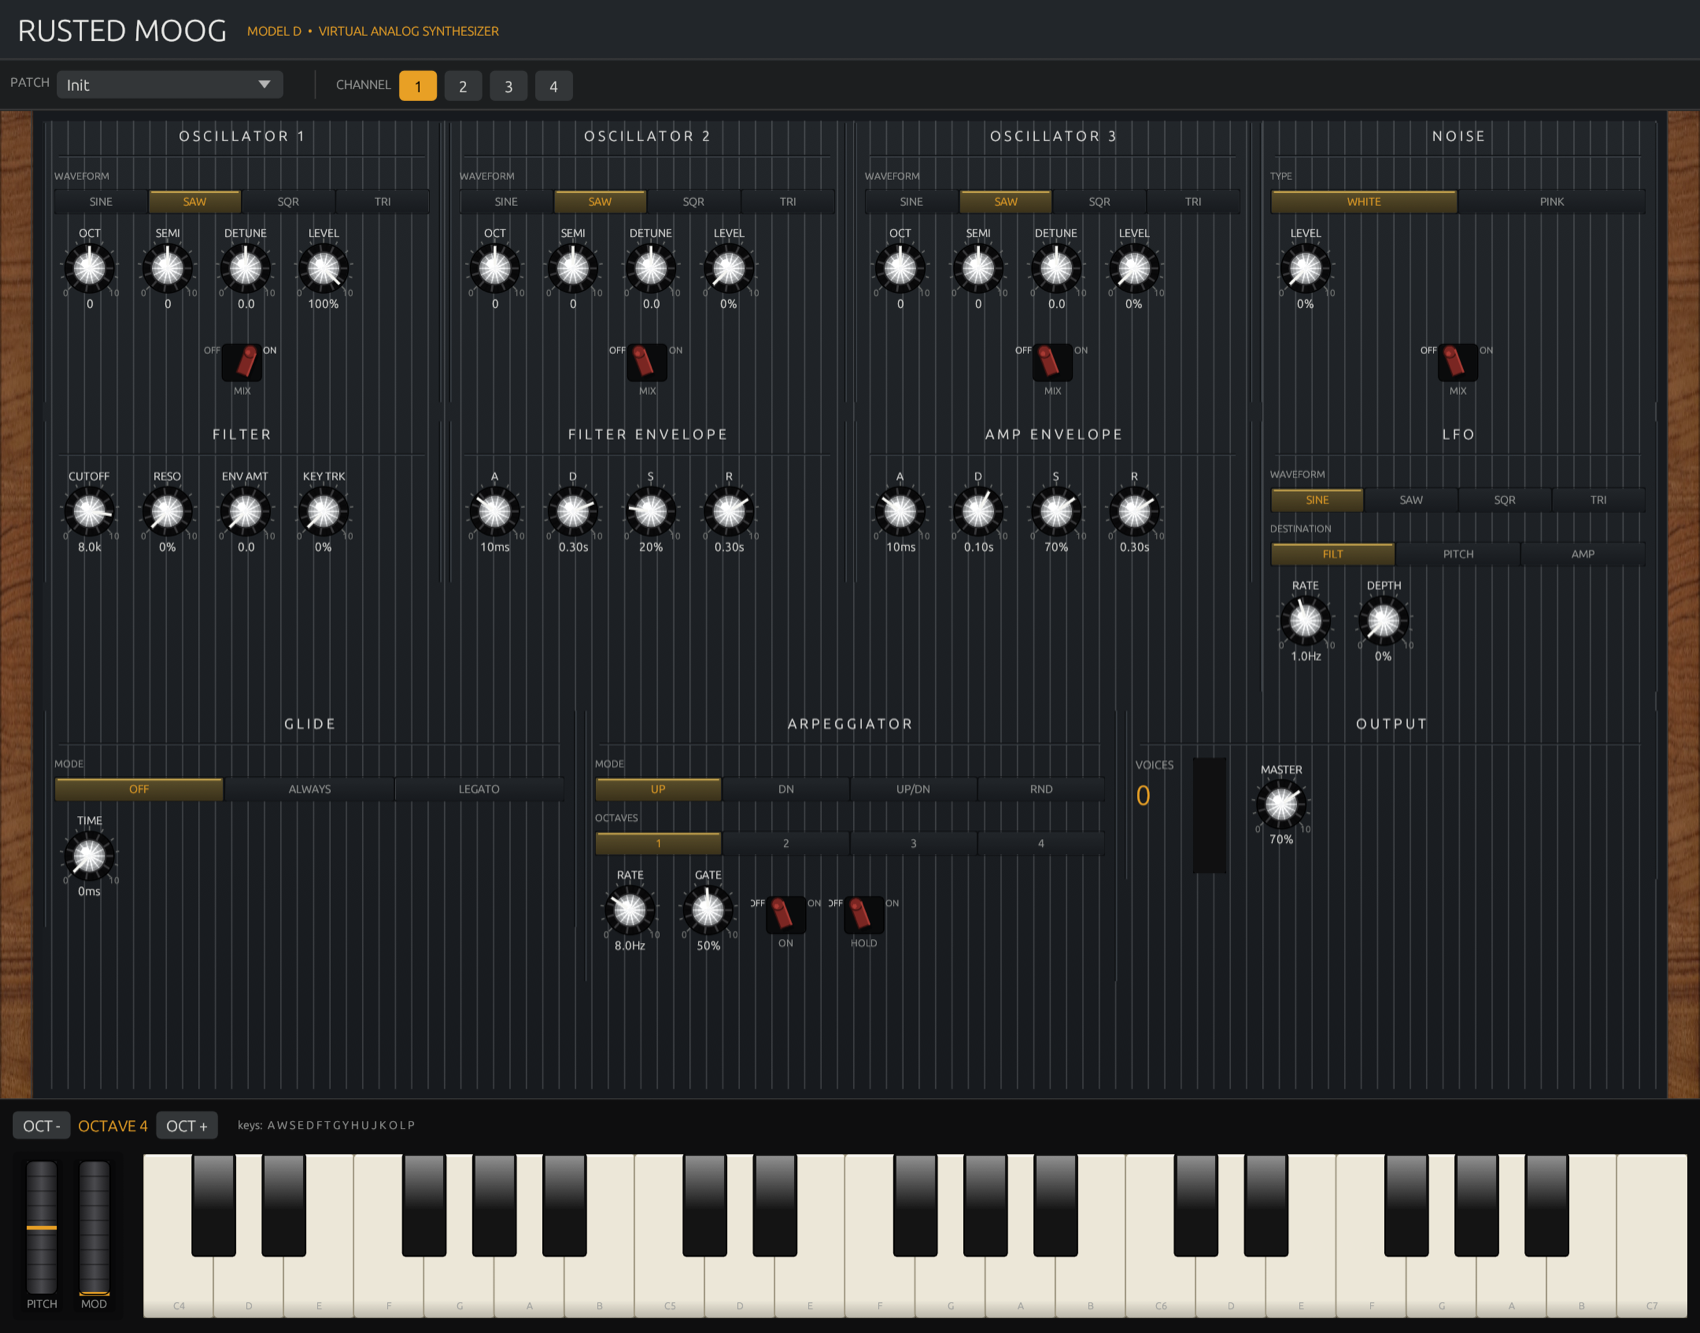
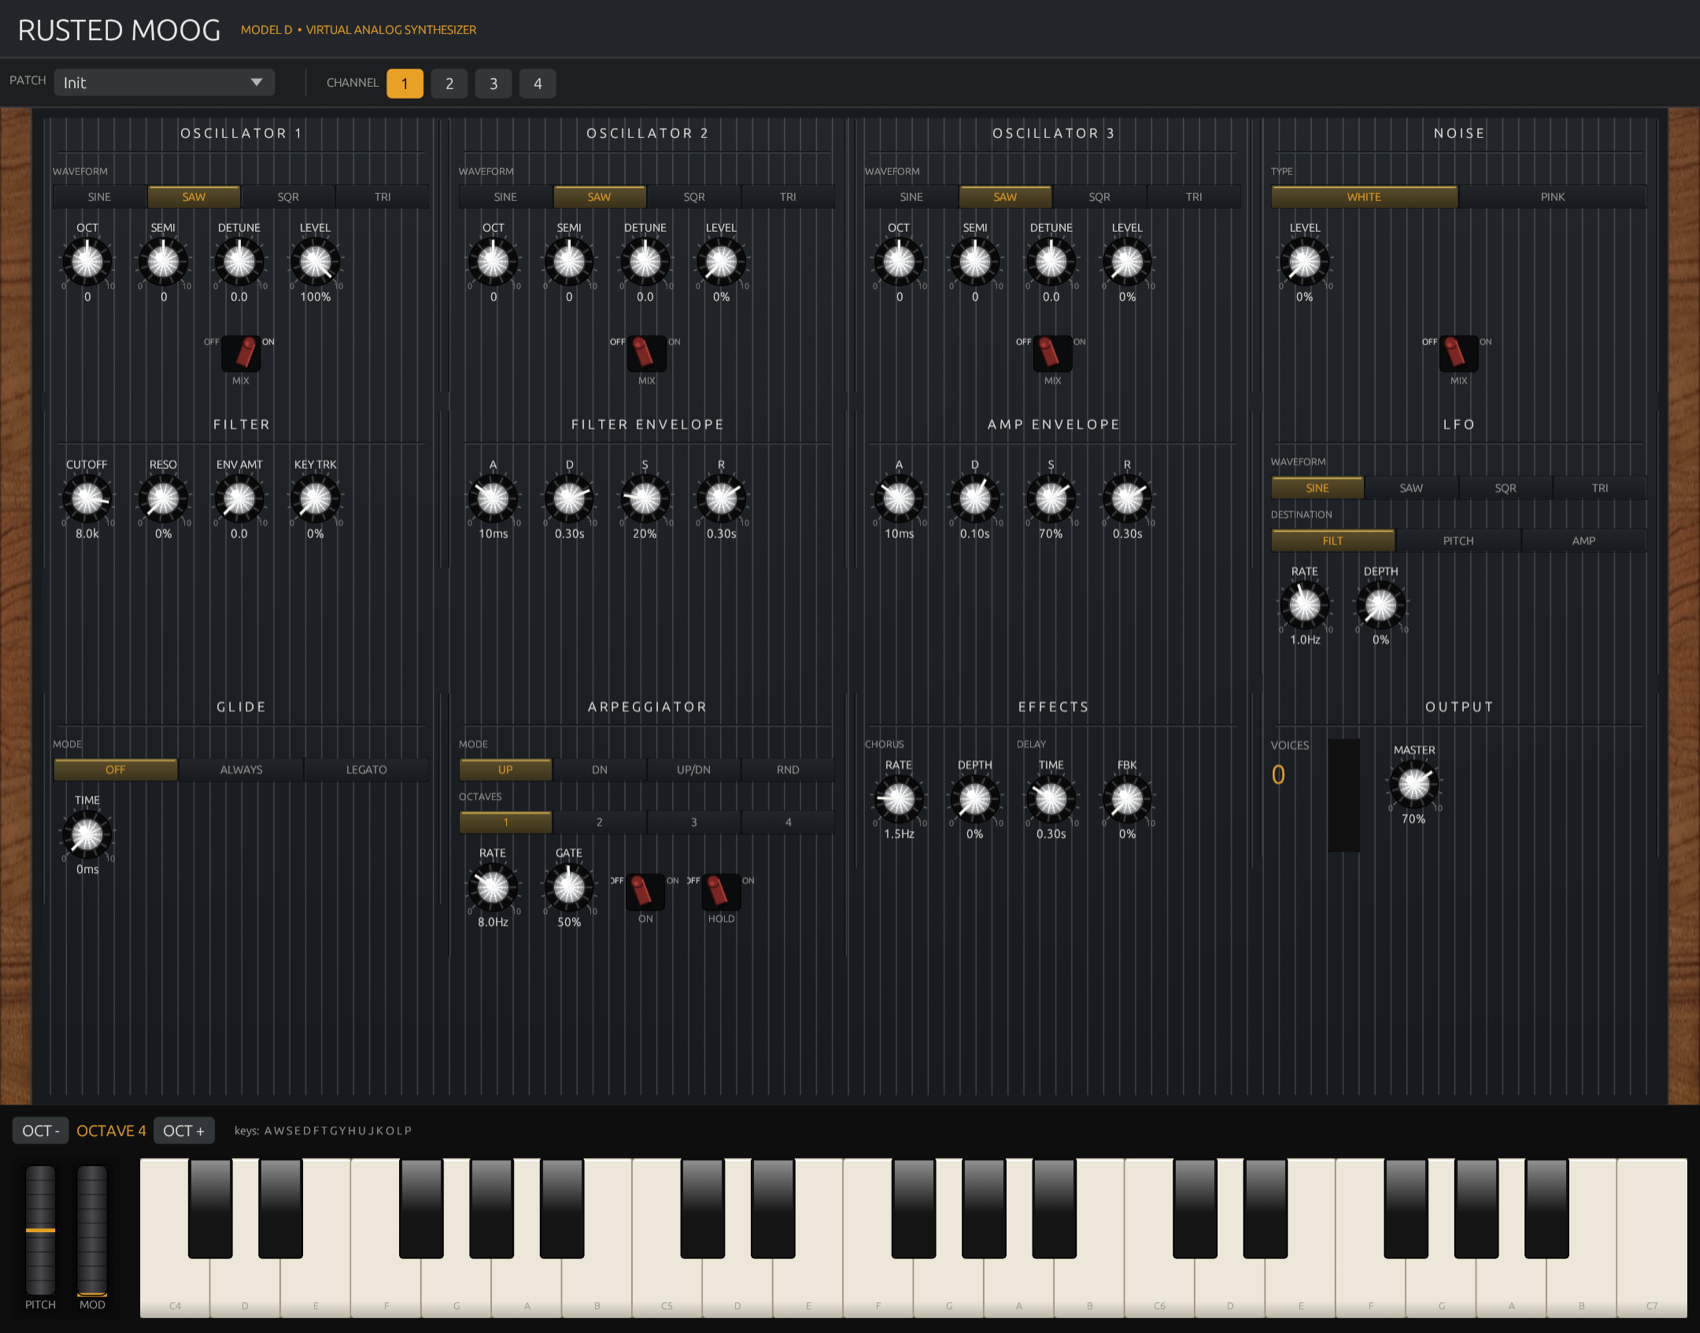
Add master effects: modulated chorus (rate/depth) + feedback delay (time/feedback)
- voog-dsp/effects.rs: Chorus (LFO-swept delay) and Delay (feedback echo), processed
  on the master mix before soft-clip; transparent at depth/feedback 0; 4 unit tests
- event.rs/synth.rs: SetChorusRate/Depth, SetDelayTime/Feedback master events + wiring
- gui.rs: EFFECTS panel (CHORUS RATE/DEPTH, DELAY TIME/FBK knobs) in the bottom row
- README + hero screenshot updated

diff --git a/docs/app/index.html b/docs/app/index.html
@@ -9,8 +9,8 @@
          `data-wasm-opt="z"` runs `wasm-opt -Oz` to shrink the module. -->
     
 <script type="module">
-import init, * as bindings from '/rusted-moog/app/voog-126963cd2e4a5b04.js';
-const wasm = await init({ module_or_path: '/rusted-moog/app/voog-126963cd2e4a5b04_bg.wasm' });
+import init, * as bindings from '/rusted-moog/app/voog-c9c9dffad99d214e.js';
+const wasm = await init({ module_or_path: '/rusted-moog/app/voog-c9c9dffad99d214e_bg.wasm' });
 
 
 window.wasmBindings = bindings;
@@ -40,7 +40,7 @@ dispatchEvent(new CustomEvent("TrunkApplicationStarted", {detail: {wasm}}));
         outline: none;
       }
     </style>
-  <link rel="modulepreload" href="/rusted-moog/app/voog-126963cd2e4a5b04.js" crossorigin="anonymous" integrity="sha384-wJ7o7tUTHsp/YIEnZ7mOfDj6YbCoQFayOVyNcNhi5SXMm9AFqW+11W0RxhQQ234R"><link rel="preload" href="/rusted-moog/app/voog-126963cd2e4a5b04_bg.wasm" crossorigin="anonymous" integrity="sha384-N+hcFL5Yy5dYL6TtwZQORPb8odHX0qldmJv+NA9JBD+0EC/cCSIZGTLPJXcAJjdS" as="fetch" type="application/wasm"></head>
+  <link rel="modulepreload" href="/rusted-moog/app/voog-c9c9dffad99d214e.js" crossorigin="anonymous" integrity="sha384-wMQ3Y2BoTJNFy3PXJm4uCdMPhAX/P4/0Tpc+K3Ix+mE/KvLQV3tAE+f02qEQyGKj"><link rel="preload" href="/rusted-moog/app/voog-c9c9dffad99d214e_bg.wasm" crossorigin="anonymous" integrity="sha384-9HlRtxeCAQrooz0rEVZzF7ezg8ZDBoQ7UuJZ8wVHyRd8x7YW9JRP6OUXpS0TYFtB" as="fetch" type="application/wasm"></head>
   <body>
     <canvas id="the_canvas_id"></canvas>
   </body>

diff --git a/crates/voog-dsp/src/effects.rs b/crates/voog-dsp/src/effects.rs
@@ -1,0 +1,189 @@
+//! Master effects: a modulated **chorus** and a feedback **delay**.
+//!
+//! Both are mono, run on the mixed master signal (before the soft-clip), and
+//! own their own delay lines (allocated once — no hot-path allocation). Their
+//! wet amount is tied to the intensity control (chorus `depth`, delay
+//! `feedback`) so that at zero they are fully transparent (bypassed).
+
+use crate::config::SAMPLE_RATE;
+use std::f32::consts::TAU;
+
+/// Linear-interpolated read from a ring buffer, `delay` samples behind `write`.
+#[inline]
+fn read_delayed(buf: &[f32], write: usize, delay: f32) -> f32 {
+    let len = buf.len();
+    let rp = write as f32 - delay;
+    let rp = if rp < 0.0 { rp + len as f32 } else { rp };
+    let i0 = rp.floor() as usize % len;
+    let i1 = (i0 + 1) % len;
+    let frac = rp - rp.floor();
+    buf[i0] * (1.0 - frac) + buf[i1] * frac
+}
+
+/// Modulated chorus (a short LFO-swept delay blended with the dry signal).
+pub struct Chorus {
+    pub rate: f32,  // Hz
+    pub depth: f32, // 0..1 (also controls wet mix; 0 = bypassed)
+    buf: Vec<f32>,
+    write: usize,
+    lfo_phase: f32,
+}
+
+impl Default for Chorus {
+    fn default() -> Self {
+        Self::new()
+    }
+}
+
+impl Chorus {
+    pub fn new() -> Self {
+        // ~50 ms of delay line is plenty for a chorus.
+        let len = (SAMPLE_RATE * 0.05) as usize + 4;
+        Self {
+            rate: 1.5,
+            depth: 0.0,
+            buf: vec![0.0; len],
+            write: 0,
+            lfo_phase: 0.0,
+        }
+    }
+
+    /// Process the block in place.
+    pub fn process(&mut self, io: &mut [f32]) {
+        if self.depth <= 0.0 {
+            // Bypassed — still feed the line so it doesn't click when re-enabled.
+            for &x in io.iter() {
+                self.buf[self.write] = x;
+                self.write = (self.write + 1) % self.buf.len();
+            }
+            self.lfo_phase = 0.0;
+            return;
+        }
+        let base = SAMPLE_RATE * 0.012; // 12 ms centre
+        let mod_depth = SAMPLE_RATE * 0.006 * self.depth.clamp(0.0, 1.0); // up to 6 ms sweep
+        let wet = self.depth.clamp(0.0, 1.0) * 0.5;
+        let inc = self.rate.clamp(0.05, 12.0) / SAMPLE_RATE;
+        let len = self.buf.len();
+        for x in io.iter_mut() {
+            let lfo = (TAU * self.lfo_phase).sin();
+            self.lfo_phase += inc;
+            if self.lfo_phase >= 1.0 {
+                self.lfo_phase -= 1.0;
+            }
+            let delay = base + mod_depth * lfo;
+            let delayed = read_delayed(&self.buf, self.write, delay);
+            self.buf[self.write] = *x;
+            self.write = (self.write + 1) % len;
+            *x = *x * (1.0 - wet) + delayed * wet;
+        }
+    }
+}
+
+/// Feedback delay (echo). `time` sets the delay length, `feedback` the number
+/// of repeats and — to keep it to two knobs — the wet amount (0 = bypassed).
+pub struct Delay {
+    pub time: f32,     // seconds
+    pub feedback: f32, // 0..~0.9
+    buf: Vec<f32>,
+    write: usize,
+}
+
+impl Default for Delay {
+    fn default() -> Self {
+        Self::new()
+    }
+}
+
+impl Delay {
+    pub fn new() -> Self {
+        // Up to ~1.2 s of delay.
+        let len = (SAMPLE_RATE * 1.2) as usize + 4;
+        Self {
+            time: 0.3,
+            feedback: 0.0,
+            buf: vec![0.0; len],
+            write: 0,
+        }
+    }
+
+    /// Process the block in place.
+    pub fn process(&mut self, io: &mut [f32]) {
+        let fb = self.feedback.clamp(0.0, 0.92);
+        if fb <= 0.0 {
+            // Bypassed — decay the line so a lingering tail doesn't jump back.
+            for x in io.iter() {
+                self.buf[self.write] = *x;
+                self.write = (self.write + 1) % self.buf.len();
+            }
+            return;
+        }
+        let max = (self.buf.len() - 2) as f32;
+        let delay = (self.time.clamp(0.02, 1.2) * SAMPLE_RATE).clamp(1.0, max);
+        let wet = fb * 0.6; // wet amount follows feedback so 0 = fully dry
+        let len = self.buf.len();
+        for x in io.iter_mut() {
+            let delayed = read_delayed(&self.buf, self.write, delay);
+            let dry = *x;
+            self.buf[self.write] = dry + fb * delayed;
+            self.write = (self.write + 1) % len;
+            *x = dry + wet * delayed;
+        }
+    }
+}
+
+#[cfg(test)]
+mod tests {
+    use super::*;
+
+    #[test]
+    fn chorus_bypassed_at_zero_depth() {
+        let mut c = Chorus::new();
+        c.depth = 0.0;
+        let input: Vec<f32> = (0..512).map(|i| (i as f32 * 0.01).sin()).collect();
+        let mut io = input.clone();
+        c.process(&mut io);
+        assert_eq!(io, input, "depth=0 must be transparent");
+    }
+
+    #[test]
+    fn chorus_alters_signal_when_active() {
+        let mut c = Chorus::new();
+        c.depth = 0.8;
+        c.rate = 2.0;
+        let input: Vec<f32> = (0..2048).map(|i| (i as f32 * 0.05).sin()).collect();
+        let mut io = input.clone();
+        c.process(&mut io);
+        assert!(io.iter().all(|x| x.is_finite()));
+        assert!(io != input, "active chorus should change the signal");
+    }
+
+    #[test]
+    fn delay_bypassed_at_zero_feedback() {
+        let mut d = Delay::new();
+        d.feedback = 0.0;
+        let input: Vec<f32> = (0..512).map(|i| (i as f32 * 0.02).sin()).collect();
+        let mut io = input.clone();
+        d.process(&mut io);
+        assert_eq!(io, input, "feedback=0 must be transparent");
+    }
+
+    #[test]
+    fn delay_produces_echo_and_stays_finite() {
+        let mut d = Delay::new();
+        d.time = 0.05;
+        d.feedback = 0.6;
+        // An impulse should reappear later (the echo) and never blow up.
+        let mut io = vec![0.0f32; 8192];
+        io[0] = 1.0;
+        d.process(&mut io);
+        let echo_region = &io[(0.05 * SAMPLE_RATE) as usize..];
+        assert!(
+            echo_region.iter().any(|&x| x.abs() > 0.05),
+            "expected an audible echo"
+        );
+        assert!(
+            io.iter().all(|x| x.is_finite() && x.abs() < 8.0),
+            "delay must stay bounded"
+        );
+    }
+}

diff --git a/crates/voog/src/gui.rs b/crates/voog/src/gui.rs
@@ -735,6 +735,11 @@ pub struct App {
     arp_rate: f32,
     arp_gate: f32,
     arp_hold: bool,
+    // Master-effects mirror state (engine-owned; these track the last sent values).
+    chorus_rate: f32,
+    chorus_depth: f32,
+    delay_time: f32,
+    delay_feedback: f32,
     // virtual keyboard state
     kbd_octave: i32,
     active_notes: HashSet<i32>,
@@ -802,6 +807,10 @@ impl App {
             arp_rate: 8.0,
             arp_gate: 0.5,
             arp_hold: false,
+            chorus_rate: 1.5,
+            chorus_depth: 0.0,
+            delay_time: 0.3,
+            delay_feedback: 0.0,
             kbd_octave: 4,
             active_notes: HashSet::new(),
             pc_notes: HashMap::new(),
@@ -1129,11 +1138,12 @@ impl App {
             self.lfo_panel(&mut c[3]);
         });
         ui.add_space(6.0);
-        // Row 3: glide + arpeggiator + output/status.
-        ui.columns(3, |c| {
+        // Row 3: glide + arpeggiator + effects + output/status.
+        ui.columns(4, |c| {
             self.glide_panel(&mut c[0]);
             self.arp_panel(&mut c[1]);
-            self.status_panel(&mut c[2]);
+            self.fx_panel(&mut c[2]);
+            self.status_panel(&mut c[3]);
         });
     }
 
@@ -1417,6 +1427,45 @@ impl App {
                         on: hold,
                     });
                 }
+            });
+        });
+    }
+
+    fn fx_panel(&mut self, ui: &mut Ui) {
+        panel(ui, "EFFECTS", |ui| {
+            ui.horizontal(|ui| {
+                // CHORUS pair: rate + depth.
+                ui.vertical(|ui| {
+                    ui.label(RichText::new("CHORUS").color(CREAM_DIM).size(8.0));
+                    ui.horizontal(|ui| {
+                        let mut rate = self.chorus_rate;
+                        if knob(ui, "RATE", &mut rate, 0.1, 8.0, false, 1.5, KFmt::Rate) {
+                            self.chorus_rate = rate;
+                            self.send(Event::SetChorusRate(rate));
+                        }
+                        let mut depth = self.chorus_depth;
+                        if knob(ui, "DEPTH", &mut depth, 0.0, 1.0, false, 0.0, KFmt::Percent) {
+                            self.chorus_depth = depth;
+                            self.send(Event::SetChorusDepth(depth));
+                        }
+                    });
+                });
+                // DELAY pair: time + feedback.
+                ui.vertical(|ui| {
+                    ui.label(RichText::new("DELAY").color(CREAM_DIM).size(8.0));
+                    ui.horizontal(|ui| {
+                        let mut time = self.delay_time;
+                        if knob(ui, "TIME", &mut time, 0.02, 1.0, false, 0.3, KFmt::Time) {
+                            self.delay_time = time;
+                            self.send(Event::SetDelayTime(time));
+                        }
+                        let mut fbk = self.delay_feedback;
+                        if knob(ui, "FBK", &mut fbk, 0.0, 0.9, false, 0.0, KFmt::Percent) {
+                            self.delay_feedback = fbk;
+                            self.send(Event::SetDelayFeedback(fbk));
+                        }
+                    });
+                });
             });
         });
     }

diff --git a/crates/voog-dsp/src/synth.rs b/crates/voog-dsp/src/synth.rs
@@ -7,12 +7,15 @@
 
 use crate::channel::Channel;
 use crate::config::{BUFFER_SIZE, NUM_CHANNELS};
+use crate::effects::{Chorus, Delay};
 use crate::event::Event;
 
 pub struct Synth {
     pub channels: Vec<Channel>,
     master_volume: f32,
     peak_level: f32,
+    chorus: Chorus,
+    delay: Delay,
     mix_scratch: [f32; BUFFER_SIZE],
     ch_scratch: [f32; BUFFER_SIZE],
 }
@@ -29,6 +32,8 @@ impl Synth {
             channels: (0..NUM_CHANNELS).map(|_| Channel::new()).collect(),
             master_volume: 0.8,
             peak_level: 0.0,
+            chorus: Chorus::new(),
+            delay: Delay::new(),
             mix_scratch: [0.0; BUFFER_SIZE],
             ch_scratch: [0.0; BUFFER_SIZE],
         }
@@ -156,6 +161,10 @@ impl Synth {
                     c.set_arp_hold(on);
                 }
             }
+            Event::SetChorusRate(v) => self.chorus.rate = v,
+            Event::SetChorusDepth(v) => self.chorus.depth = v,
+            Event::SetDelayTime(v) => self.delay.time = v,
+            Event::SetDelayFeedback(v) => self.delay.feedback = v,
         }
     }
 
@@ -176,6 +185,9 @@ impl Synth {
             for ch in &mut self.channels {
                 ch.render_add(mix, &mut self.ch_scratch);
             }
+            // Master effects (transparent when depth / feedback are 0).
+            self.chorus.process(mix);
+            self.delay.process(mix);
             let mv = self.master_volume;
             for (o, &m) in chunk.iter_mut().zip(mix.iter()) {
                 let s = (m * mv).tanh(); // soft clip

diff --git a/crates/voog-dsp/src/event.rs b/crates/voog-dsp/src/event.rs
@@ -105,6 +105,12 @@ pub enum Event {
         channel: u8,
         on: bool,
     },
+
+    // ── Master effects ──
+    SetChorusRate(f32),
+    SetChorusDepth(f32),
+    SetDelayTime(f32),
+    SetDelayFeedback(f32),
 }
 
 impl Patch {

diff --git a/crates/voog-dsp/src/lib.rs b/crates/voog-dsp/src/lib.rs
@@ -27,6 +27,7 @@ pub mod oscillator;
 // Engine layer (pure logic, no audio I/O — fully unit-testable).
 pub mod arpeggiator;
 pub mod channel;
+pub mod effects;
 pub mod event;
 pub mod patches;
 pub mod synth;
@@ -44,6 +45,7 @@ pub use params::*;
 
 pub use arpeggiator::{ArpMode, Arpeggiator};
 pub use channel::Channel;
+pub use effects::{Chorus, Delay};
 pub use event::{Event, ParamId};
 pub use synth::Synth;
 pub use voice::Voice;

diff --git a/README.md b/README.md
@@ -41,6 +41,7 @@ Same synth architecture, deterministic real-time audio, and a GUI that actually 
 - 📈 **Dual ADSR envelopes** — independent amp & filter contours
 - 🌊 **LFO** — 4 waveforms, routable to filter / pitch / amp
 - 🎹 **Jupiter-8-style arpeggiator** — Up / Down / Up&Down / Random, 1–4 octaves, rate, gate and hold (latch)
+- 🌀 **Master effects** — modulated chorus (rate + depth) and feedback delay (time + feedback)
 - 🎹 **8-voice polyphony × 4 multitimbral channels** with oldest-note voice stealing
 - 🎛️ **Glide/portamento** (off / always / legato) + white & pink noise
 - 🎼 **37 factory presets** — from sub basses to screaming leads, many ported from classic Minimoog patch charts (Parliament, ELP, Wakeman, Taurus…)